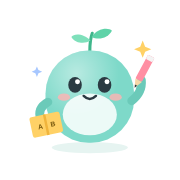
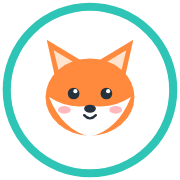
캐릭터를 뚝딱 AI 공방 여우로 바꾸고 채널 민트색으로 맞추기
Claude-Session: https://claude.ai/code/session_01GWkKuEUkShDUgvGJggQhmC

diff --git a/style.css b/style.css
@@ -1,6 +1,6 @@
 * { box-sizing: border-box; margin: 0; padding: 0; }
 :root {
-  --point: #2bb3a0;
+  --point: #2EC4B6;
   --text: #24323a;
   --sub: #6b7a83;
   --line: #e9eef0;
@@ -29,7 +29,7 @@ main { max-width: 960px; margin: 0 auto; padding: 0 20px; }
 
 /* 메인 소개 */
 .hero { text-align: center; padding: 28px 0 36px; }
-.mascot { width: 180px; height: 180px; animation: bob 3s ease-in-out infinite; }
+.mascot { width: 150px; height: 150px; animation: bob 3s ease-in-out infinite; }
 @keyframes bob { 50% { transform: translateY(-8px); } }
 .hero h1 { font-size: clamp(26px, 5vw, 38px); font-weight: 800; margin-top: 12px; letter-spacing: -0.5px; }
 .hero p { color: var(--sub); margin-top: 6px; font-size: 16px; }
@@ -46,13 +46,13 @@ main { max-width: 960px; margin: 0 auto; padding: 0 20px; }
 }
 a.card:hover, .card:hover {
   transform: translateY(-3px); border-color: var(--point);
-  box-shadow: 0 8px 22px rgba(43, 179, 160, .12);
+  box-shadow: 0 8px 22px rgba(46, 196, 182, .14);
 }
 .ico {
   display: inline-flex; width: 48px; height: 48px; border-radius: 14px;
   align-items: center; justify-content: center; font-size: 24px;
 }
-.mint { background: #e3f7f3; } .blue { background: #e6efff; }
+.mint { background: #e2f7f5; } .blue { background: #e6efff; }
 .yellow { background: #fff5d9; } .pink { background: #ffe9ee; }
 .card h2 { font-size: 19px; font-weight: 700; margin-top: 14px; }
 .card p { color: var(--sub); font-size: 14px; margin-top: 4px; }
@@ -64,7 +64,7 @@ a.card:hover, .card:hover {
 .chips a:hover { background: #ffe9a8; }
 
 /* 새 소식 */
-.news { margin: 32px 0 8px; padding: 20px; background: #f6fbfa; border-radius: 18px; }
+.news { margin: 32px 0 8px; padding: 20px; background: #f3fbfa; border-radius: 18px; }
 .news h3 { font-size: 16px; margin-bottom: 8px; }
 .news li { list-style: none; font-size: 15px; padding: 4px 0; }
 .news b { color: var(--point); margin-right: 8px; }
@@ -110,7 +110,7 @@ footer a:hover { color: var(--point); }
 .file:hover { border-color: var(--point); }
 .file .type {
   flex: none; width: 46px; height: 46px; border-radius: 12px; font-size: 12px; font-weight: 800;
-  display: flex; align-items: center; justify-content: center; background: #e3f7f3; color: var(--point);
+  display: flex; align-items: center; justify-content: center; background: #e2f7f5; color: var(--point);
 }
 .file .info { flex: 1; min-width: 0; }
 .file .name { font-weight: 700; }

diff --git a/index.html b/index.html
@@ -9,7 +9,7 @@
 <link rel="icon" type="image/png" sizes="192x192" href="icon-192.png">
 <link rel="apple-touch-icon" href="apple-touch-icon.png">
 <link rel="manifest" href="manifest.json">
-<meta name="theme-color" content="#2bb3a0">
+<meta name="theme-color" content="#2EC4B6">
 <meta name="apple-mobile-web-app-title" content="Hue 작업실">
 <link rel="stylesheet" href="https://cdn.jsdelivr.net/gh/orioncactus/pretendard@v1.3.9/dist/web/static/pretendard.min.css">
 <link rel="stylesheet" href="style.css">
@@ -23,7 +23,7 @@
 
 <main>
   <section class="hero">
-    <img class="mascot" src="mascot.svg" alt="새싹 머리 캐릭터 뚝딱이">
+    <img class="mascot" src="mascot.svg" alt="뚝딱 여우">
     <h1>Master Hue의 작업실</h1>
     <p>영어 · AI · 즐거운 만들기</p>
   </section>

diff --git a/materials.html b/materials.html
@@ -7,7 +7,7 @@
 <link rel="icon" type="image/png" sizes="192x192" href="icon-192.png">
 <link rel="apple-touch-icon" href="apple-touch-icon.png">
 <link rel="manifest" href="manifest.json">
-<meta name="theme-color" content="#2bb3a0">
+<meta name="theme-color" content="#2EC4B6">
 <link rel="stylesheet" href="https://cdn.jsdelivr.net/gh/orioncactus/pretendard@v1.3.9/dist/web/static/pretendard.min.css">
 <link rel="stylesheet" href="style.css">
 </head>
